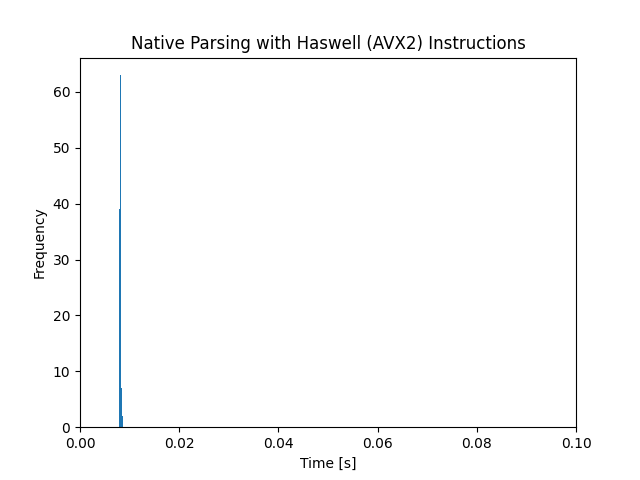
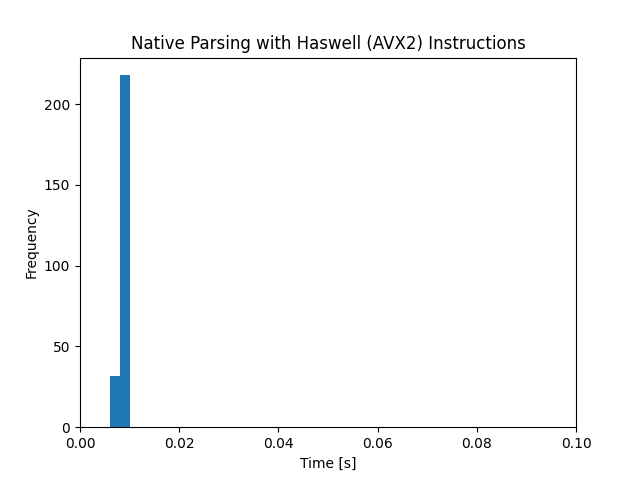
move all manually set data to config

diff --git a/analysis/comp_analysis.py b/analysis/comp_analysis.py
@@ -10,7 +10,7 @@ def get_improvement(hi: float, lo: float, is_performance: bool, switch: bool, n:
     Get improvement from two execution speeds.
     Arguments:
       hi, lo: (float) execution speeds
-      performance: (bool) True if calculating performance increase, False if calculating time reduction.
+      is_performance: (bool) True if calculating performance increase, False if calculating time reduction.
       switch: (bool) True if in the case lo > hi, the variables should be switched. False if the system should exit
       n: (int) Index of which test were are performing
     Returns: (float) Calculated improvement
@@ -114,16 +114,16 @@ def generate_hist(data: dict) -> None:
     Arguments:
       data = {filename: (average execution time, [raw data])}
     """
-    bins = np.arange(config.MIN, config.MAX, 0.002)
-    plt.hist(data[config.native_fallback_fn][1], bins, alpha=0.5,
+    bins = np.arange(config.MIN, config.MAX, config.delta)
+    plt.hist(data[config.native_fallback_fn][1], bins, alpha=config.alpha,
              label=config.comp_info[1][0], edgecolor="black")
-    plt.hist(data[config.native_haswell_fn][1], bins, alpha=0.5,
+    plt.hist(data[config.native_haswell_fn][1], bins, alpha=config.alpha,
              label=config.comp_info[1][1], edgecolor="black")
-    plt.hist(data[config.native_westmere_fn][1], bins, alpha=0.5,
+    plt.hist(data[config.native_westmere_fn][1], bins, alpha=config.alpha,
              label=config.comp_info[1][2], edgecolor="black")
-    plt.hist(data[config.wasm_fallback_fn][1], bins, alpha=0.5,
+    plt.hist(data[config.wasm_fallback_fn][1], bins, alpha=config.alpha,
              label=config.comp_info[1][3], edgecolor="black")
-    plt.hist(data[config.wasm_simd128_fn][1], bins, alpha=0.5,
+    plt.hist(data[config.wasm_simd128_fn][1], bins, alpha=config.alpha,
              label=config.comp_info[1][4], edgecolor="black")
 
     plt.xlabel("Time [s]")
@@ -146,7 +146,7 @@ def generate_bar(data: dict) -> None:
     for i in range(5):
         y_axis[i] = list(data.values())[i][0]
 
-    plt.figure(figsize=(12,6))
+    plt.figure(figsize=config.fig_size)
     plt.bar(x_axis, y_axis)
     plt.xlabel('Implementation')
     plt.ylabel('Time [s]')

diff --git a/analysis/config.py b/analysis/config.py
@@ -10,6 +10,15 @@ def init():
     global MAX_VAR
     MAX_VAR=10**-4
 
+    # values for histogram visualization - alpha is opacity and delta is width
+    global alpha, delta
+    alpha = 0.5
+    delta = 0.002
+
+    # figure dimensions for bar chart
+    global fig_size
+    fig_size = (12, 6)
+
     # directory for results output files
     results_dir = 'results/'
     raw_data_dir = 'raw-data/'

diff --git a/analysis/stat_analysis.py b/analysis/stat_analysis.py
@@ -21,7 +21,7 @@ def main(filename):
         f.write("max: " + str(max(data)) + "\n")
         f.write("min: " + str(min(data)) + "\n")
 
-    _ = plt.hist(data, bins=25)
+    plt.hist(data, bins=np.arange(config.MIN, config.MAX, config.delta))
     plt.xlabel("Time [s]")
     plt.ylabel("Frequency")
     plt.title(exports[1])
